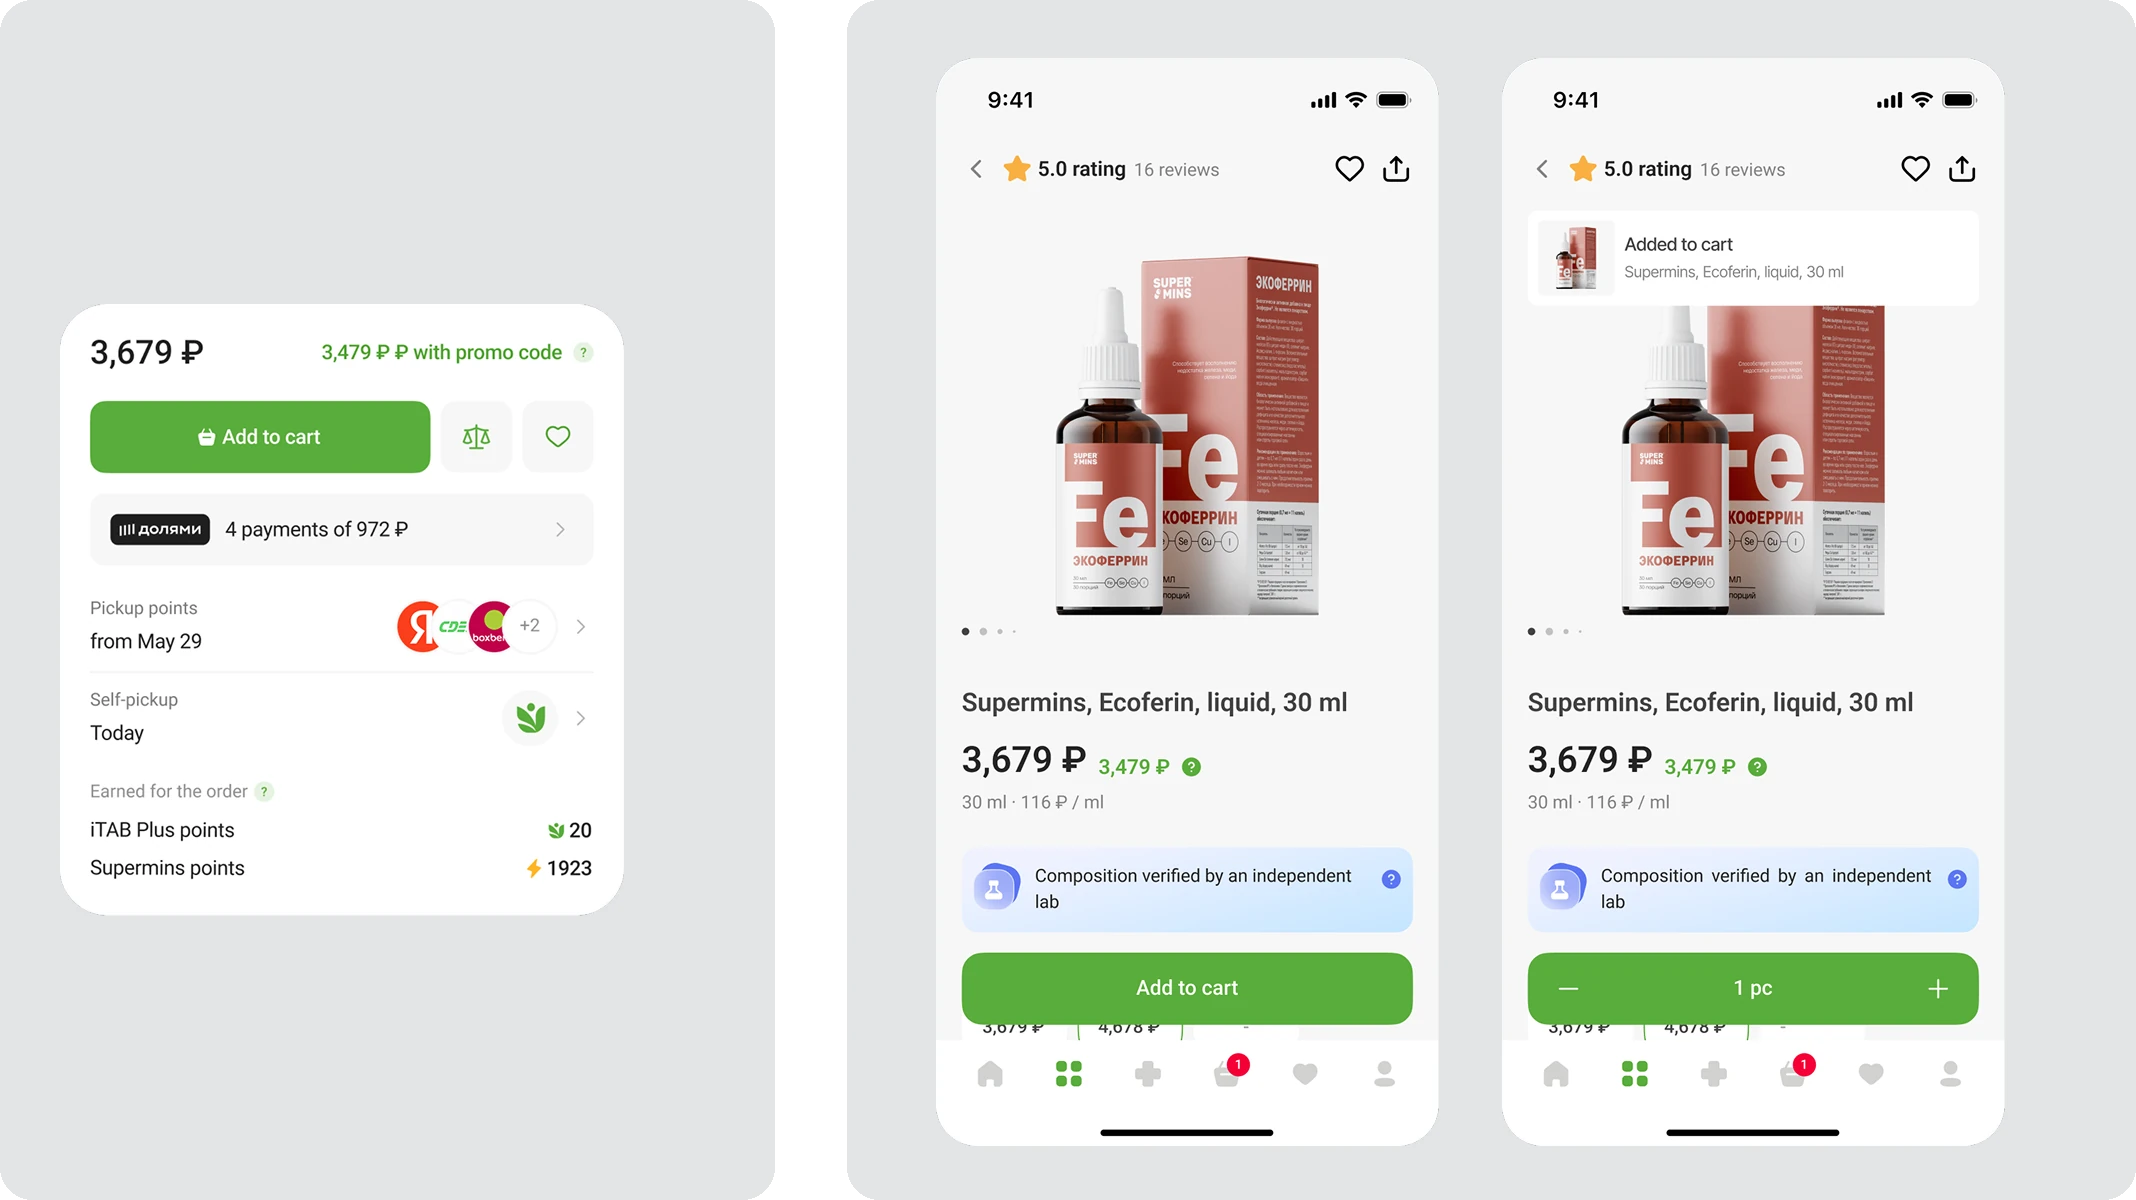
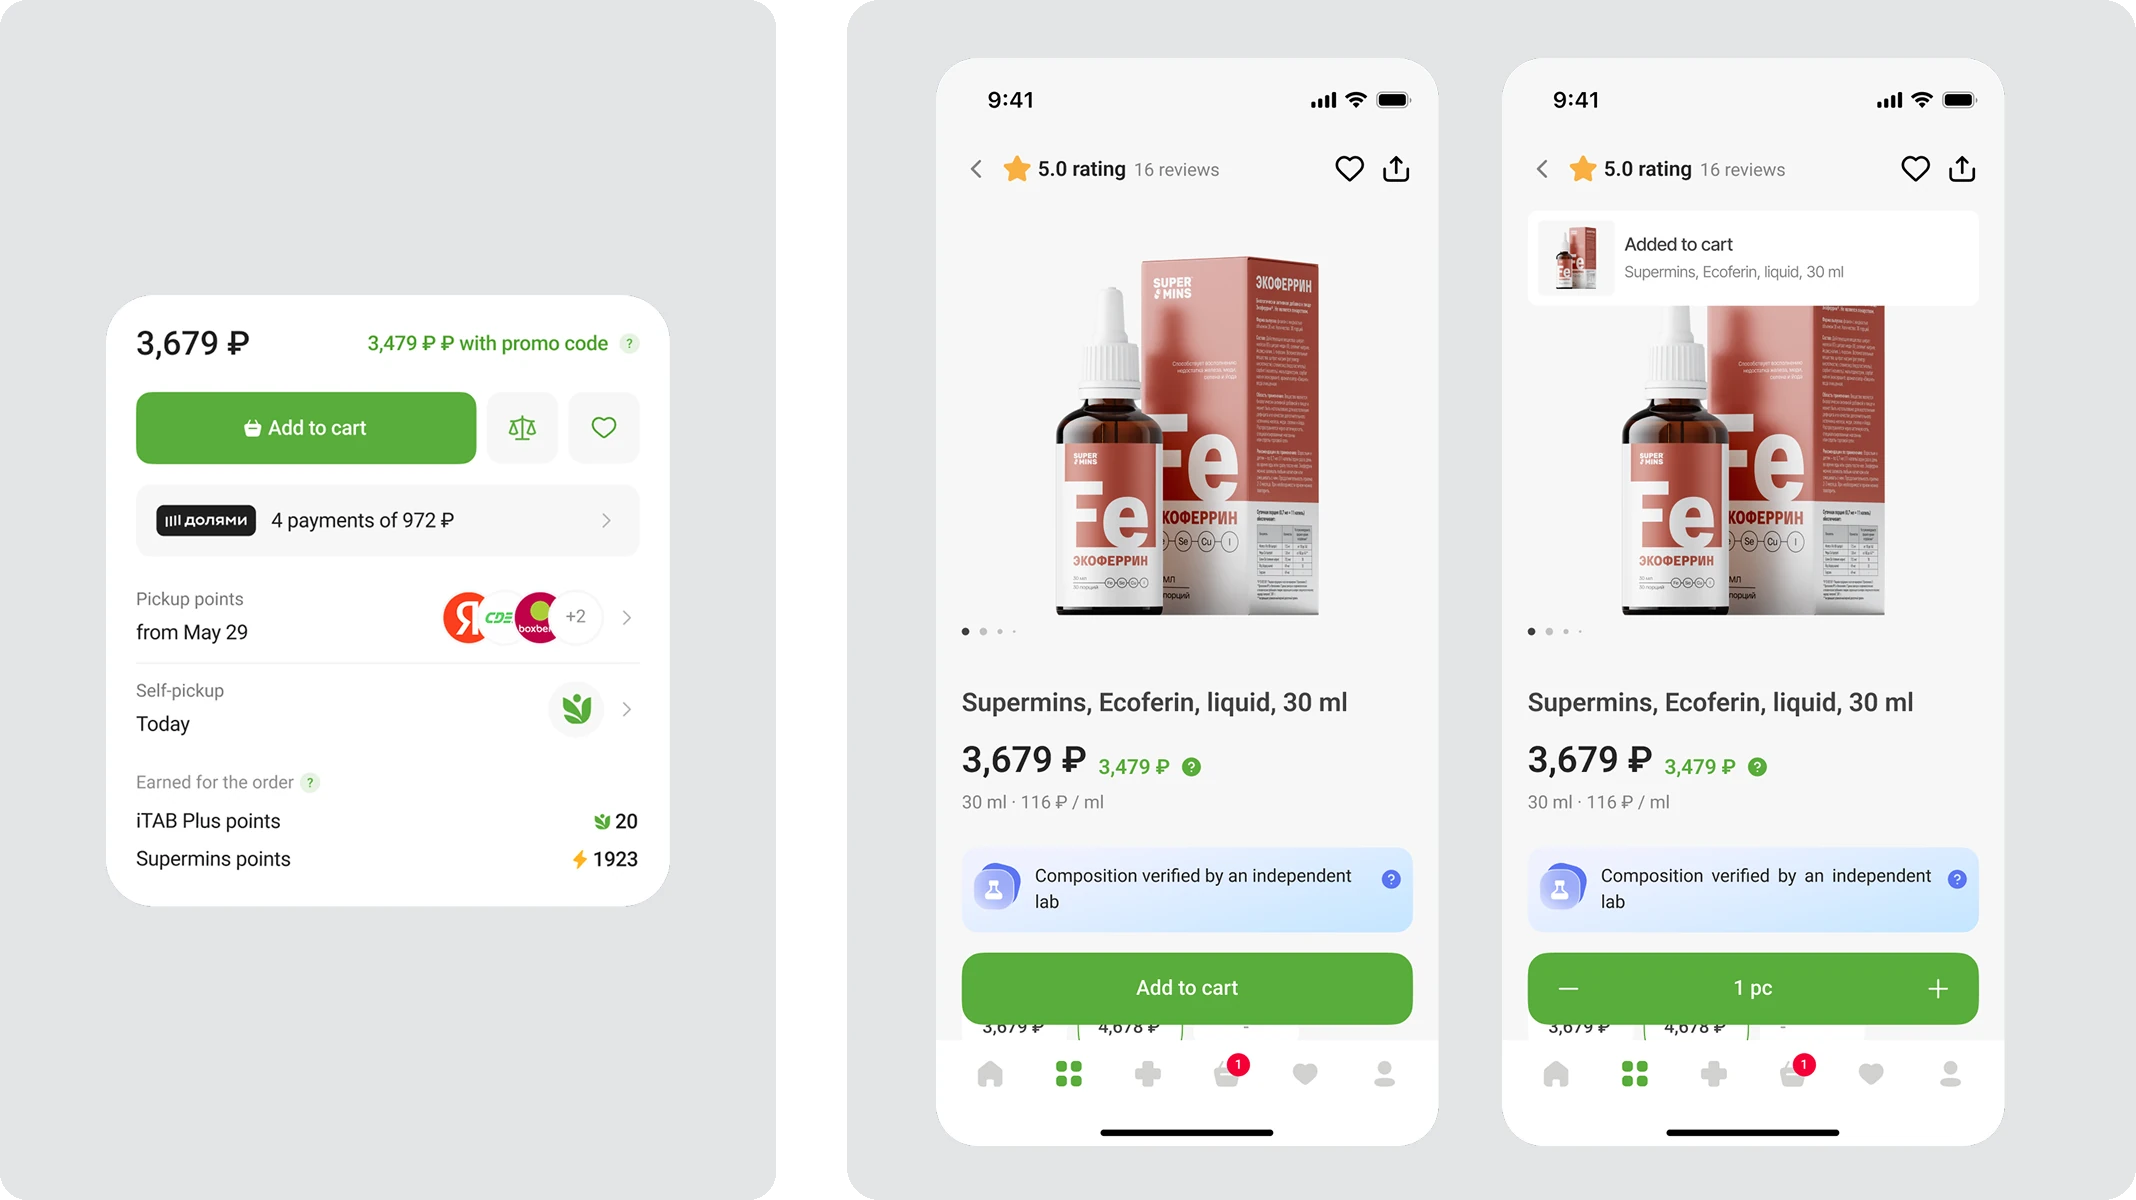
Center the pricing card within its plate in iTAB uxA1
Recenter the pricing-card content (both axes) inside its gray plate,
preserve the plate's rounded transparent corners, bump cache-buster to v=3.

Changed region(s): [[0.0309, 0.2467, 0.3399, 0.7708]]

diff --git a/itab.html b/itab.html
@@ -137,8 +137,8 @@
 
         <figure class="case__figure">
           <picture>
-            <source srcset="assets/case-itab-uxA1.webp?v=2" type="image/webp">
-            <img src="assets/case-itab-uxA1.png?v=2" alt="Pricing card on its own plate next to two mobile product cards showing the available-state CTA transitioning into quantity control after add-to-cart" loading="lazy">
+            <source srcset="assets/case-itab-uxA1.webp?v=3" type="image/webp">
+            <img src="assets/case-itab-uxA1.png?v=3" alt="Pricing card on its own plate next to two mobile product cards showing the available-state CTA transitioning into quantity control after add-to-cart" loading="lazy">
           </picture>
         </figure>
 
